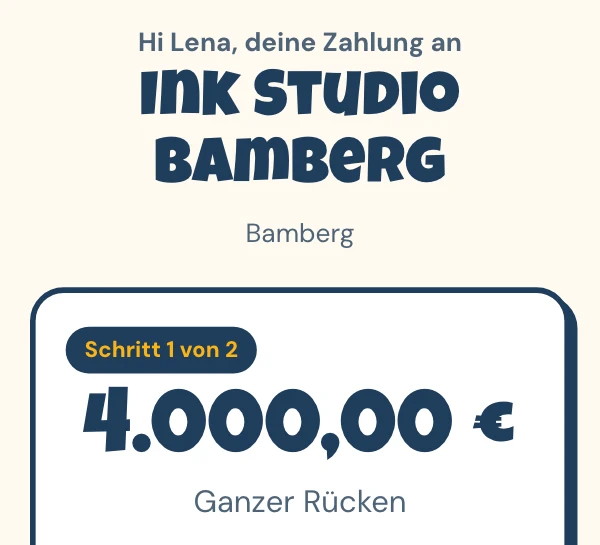
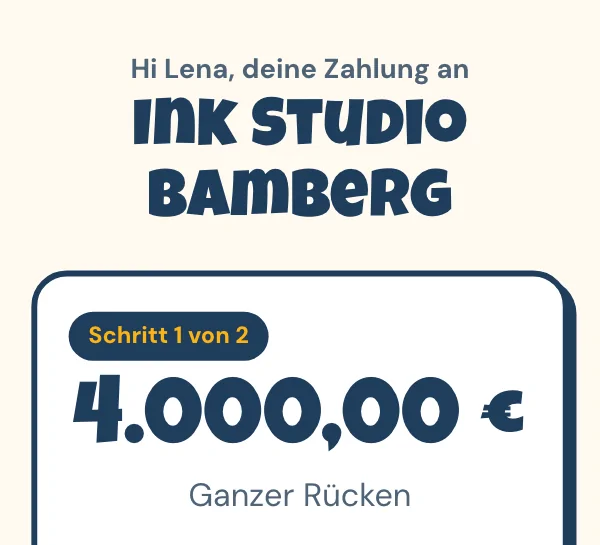
Tattoofin LP: Handybild 4.000 € ohne doppelte Ortszeile
Zahlseite (zahlung.html, zahlen.html) zeigt die Ortszeile nur noch, wenn der
Ort nicht schon im Studionamen steht (gleiche Regel wie app-kit.js), sonst
stand dort „Ink Studio Bamberg / Bamberg“. Hero-Bild handy-kunde-oben.webp
damit neu aufgenommen (echte Zahlseite am lokalen Server, 306 px Breite,
600×545, gleicher Ausschnitt wie Anzahlungs- und Gutscheinbild), Version
v=20261116d. e2e prüft die Ortszeile.

Changed region(s): [[0.03, 0.0624, 0.99, 1.0], [0.3, 0.8734, 0.48, 0.967], [0.51, 0.8734, 0.69, 0.9358]]

diff --git a/tattoofin/website/public/index.html b/tattoofin/website/public/index.html
@@ -7,7 +7,7 @@
 if(/(^|[^a-z])tv-?a([^a-z]|$)|^d$|bild-?d2?|no-?show|anzahlung/.test(u))v='noshow';
 else if(/(^|[^a-z])tv-?c([^a-z]|$)|10-?sek|link/.test(u))v='link';
 else if(/(^|[^a-z])tv-?d([^a-z]|$)|gutschein|weihnacht/.test(u))v=new Date()<new Date('2026-12-25T00:00:00+01:00')?'gutschein':'link';
-var d=document.documentElement,B={"": "handy-kunde-oben.webp?v=20261116c", "noshow": "handy-anzahlung-oben.webp?v=20261116b", "gutschein": "handy-gutschein-oben.webp?v=20261116b"},l=document.createElement('link');
+var d=document.documentElement,B={"": "handy-kunde-oben.webp?v=20261116d", "noshow": "handy-anzahlung-oben.webp?v=20261116b", "gutschein": "handy-gutschein-oben.webp?v=20261116b"},l=document.createElement('link');
 if(!(window.matchMedia&&matchMedia('(prefers-reduced-motion: reduce)').matches)){d.classList.add('stech-warten');setTimeout(function(){d.classList.remove('stech-warten')},4000);}
 l.rel='preload';l.as='image';l.type='image/webp';l.href='/assets/start/'+(B[v]||B['']);l.setAttribute('fetchpriority','high');document.head.appendChild(l);
 if(v){d.setAttribute('data-hero',v);setTimeout(function(){d.classList.add('hero-ok')},1500);}}catch(e){}})();</script>
@@ -61,7 +61,7 @@ if(v){d.setAttribute('data-hero',v);setTimeout(function(){d.classList.add('hero-
       <img class="hausherr" src="/assets/start/figur.webp" alt="Tattoofin-Figur mit tätowierten Armen zeigt den Daumen hoch" width="300" height="310" decoding="async">
       <figure class="auftakt-handy">
         <span class="klebe" aria-hidden="true"></span>
-        <span class="handy-rahmen"><img src="/assets/start/handy-kunde-oben.webp?v=20261116c" alt="Echte Tattoofin-Zahlseite am Handy: Hi Lena, deine Zahlung an Ink Studio Bamberg, Schritt 1 von 2, 4.000,00 Euro, Ganzer Rücken. Beispieldaten." width="600" height="545"><button type="button" class="film-knopf" data-film aria-haspopup="dialog"><span aria-hidden="true">▶</span> 10 Sek. ansehen</button></span>
+        <span class="handy-rahmen"><img src="/assets/start/handy-kunde-oben.webp?v=20261116d" alt="Echte Tattoofin-Zahlseite am Handy: Hi Lena, deine Zahlung an Ink Studio Bamberg, Schritt 1 von 2, 4.000,00 Euro, Ganzer Rücken. Beispieldaten." width="600" height="545"><button type="button" class="film-knopf" data-film aria-haspopup="dialog"><span aria-hidden="true">▶</span> 10 Sek. ansehen</button></span>
         <figcaption>Echte App · Beispieldaten</figcaption>
       </figure>
     </div>

diff --git a/tattoofin/website/public/studios.html b/tattoofin/website/public/studios.html
@@ -7,7 +7,7 @@
 if(/(^|[^a-z])tv-?a([^a-z]|$)|^d$|bild-?d2?|no-?show|anzahlung/.test(u))v='noshow';
 else if(/(^|[^a-z])tv-?c([^a-z]|$)|10-?sek|link/.test(u))v='link';
 else if(/(^|[^a-z])tv-?d([^a-z]|$)|gutschein|weihnacht/.test(u))v=new Date()<new Date('2026-12-25T00:00:00+01:00')?'gutschein':'link';
-var d=document.documentElement,B={"": "handy-kunde-oben.webp?v=20261116c", "noshow": "handy-anzahlung-oben.webp?v=20261116b", "gutschein": "handy-gutschein-oben.webp?v=20261116b"},l=document.createElement('link');
+var d=document.documentElement,B={"": "handy-kunde-oben.webp?v=20261116d", "noshow": "handy-anzahlung-oben.webp?v=20261116b", "gutschein": "handy-gutschein-oben.webp?v=20261116b"},l=document.createElement('link');
 if(!(window.matchMedia&&matchMedia('(prefers-reduced-motion: reduce)').matches)){d.classList.add('stech-warten');setTimeout(function(){d.classList.remove('stech-warten')},4000);}
 l.rel='preload';l.as='image';l.type='image/webp';l.href='/assets/start/'+(B[v]||B['']);l.setAttribute('fetchpriority','high');document.head.appendChild(l);
 if(v){d.setAttribute('data-hero',v);setTimeout(function(){d.classList.add('hero-ok')},1500);}}catch(e){}})();</script>
@@ -60,7 +60,7 @@ if(v){d.setAttribute('data-hero',v);setTimeout(function(){d.classList.add('hero-
       <img class="hausherr" src="/assets/start/figur.webp" alt="Tattoofin-Figur mit tätowierten Armen zeigt den Daumen hoch" width="300" height="310" decoding="async">
       <figure class="auftakt-handy">
         <span class="klebe" aria-hidden="true"></span>
-        <span class="handy-rahmen"><img src="/assets/start/handy-kunde-oben.webp?v=20261116c" alt="Echte Tattoofin-Zahlseite am Handy: Hi Lena, deine Zahlung an Ink Studio Bamberg, Schritt 1 von 2, 4.000,00 Euro, Ganzer Rücken. Beispieldaten." width="600" height="545"><button type="button" class="film-knopf" data-film aria-haspopup="dialog"><span aria-hidden="true">▶</span> 10 Sek. ansehen</button></span>
+        <span class="handy-rahmen"><img src="/assets/start/handy-kunde-oben.webp?v=20261116d" alt="Echte Tattoofin-Zahlseite am Handy: Hi Lena, deine Zahlung an Ink Studio Bamberg, Schritt 1 von 2, 4.000,00 Euro, Ganzer Rücken. Beispieldaten." width="600" height="545"><button type="button" class="film-knopf" data-film aria-haspopup="dialog"><span aria-hidden="true">▶</span> 10 Sek. ansehen</button></span>
         <figcaption>Echte App · Beispieldaten</figcaption>
       </figure>
     </div>

diff --git a/tattoofin/website/public/zahlung.html b/tattoofin/website/public/zahlung.html
@@ -70,7 +70,7 @@
     B.meldung(err.status === 404 ? "Bitte prüfe den Link oder frag im Studio nach einem neuen." : err.message); return;
   }
   var z = d.zahlung, anz = z.art === "anzahlung", gs = z.art === "gutschein";
-  $("studio").textContent = d.studio.firma; $("ort").textContent = d.studio.ort || ""; B.branding(d.studio);
+  $("studio").textContent = d.studio.firma; $("ort").textContent = (function (f, o) { o = String(o || "").trim(); return o && String(f || "").toLowerCase().indexOf(o.toLowerCase()) < 0 ? o : ""; })(d.studio.firma, d.studio.ort) /* Ort nur, wenn er nicht schon im Studionamen steht (sonst „Ink Studio Bamberg / Bamberg“) */; B.branding(d.studio);
   $("hallo").textContent = gs ? (z.kunde ? "Hi " + z.kunde + ", dein Gutschein von" : "Dein Gutschein von") : z.kunde ? "Hi " + z.kunde + ", deine Zahlung an" : "Zahlung an";
   $("betrag").textContent = TF.euro(z.betragCent, true);
   $("sub").textContent = gs ? "Wertgutschein" + (z.empfaenger ? " für " + z.empfaenger : "") + " · für alle Leistungen bei " + d.studio.firma : (z.beschreibung || "Tattoo-Projekt") + (z.sitzungen ? " · " + z.sitzungen : "") + (anz ? " · Anzahlung" : "");

diff --git a/tattoofin/website/public/zahlen.html b/tattoofin/website/public/zahlen.html
@@ -63,7 +63,7 @@ if (/[?&]app=1(&|#|$)/.test(location.search)) document.querySelectorAll(".powere
   try {
     var d = await TF.api("/api/pay?s=" + encodeURIComponent(slug || ""));
     studio = d.studio; B.branding(studio);
-    $("studio").textContent = studio.firma; $("ort").textContent = studio.ort || "";
+    $("studio").textContent = studio.firma; $("ort").textContent = (function (f, o) { o = String(o || "").trim(); return o && String(f || "").toLowerCase().indexOf(o.toLowerCase()) < 0 ? o : ""; })(studio.firma, studio.ort) /* Ort nur, wenn er nicht schon im Studionamen steht (sonst „Ink Studio Bamberg / Bamberg“) */;
     document.title = "Bezahlen bei " + studio.firma;
     // Ohne Klarna (z. B. Paket Risikofrei ab dem Stichtag): keine Raten-Hinweise, nur Karte/Wallets
     if (studio.klarna === false) document.querySelector(".fuss").innerHTML = "Bezahlt wird per Karte (auch Apple Pay / Google Pay). Dein Vertrag über das Tattoo besteht nur mit dem Studio; Tattoofin stellt nur die Technik bereit. Deine gesetzlichen Rechte bleiben von den Häkchen unberührt.";

diff --git a/tattoofin/website/dev/startseite-bauen.py b/tattoofin/website/dev/startseite-bauen.py
@@ -48,7 +48,7 @@ FRAGEN = [
 # Kopf-Skript (steht vor dem Stylesheet, damit es nicht auf style.css wartet und das Variantenbild sofort vorlädt): utm_content → html[data-hero] (CSS blendet die wechselnden Texte bis zum Tausch aus, höchstens 1,5 s) und lädt das passende Handybild vor.
 # Tausch-Skript direkt hinter dem Hero: Texte, Knopf, Stempel und Bild tauschen, dann html.hero-ok. Ohne Skript bleibt der Standard (Rücken).
 # Zuordnung: tv-a / bild-d2 / d → noshow, tv-b / ohne → Rücken (Standard), tv-c → link, tv-d → gutschein (bis 24.12., danach link).
-HERO_BILDER = {"": "handy-kunde-oben.webp?v=20261116c", "noshow": "handy-anzahlung-oben.webp?v=20261116b", "gutschein": "handy-gutschein-oben.webp?v=20261116b"}
+HERO_BILDER = {"": "handy-kunde-oben.webp?v=20261116d", "noshow": "handy-anzahlung-oben.webp?v=20261116b", "gutschein": "handy-gutschein-oben.webp?v=20261116b"}
 HERO_KOPF = """<script>(function(){try{var q=new URLSearchParams(location.search),u=(q.get('utm_content')||q.get('hero')||'').toLowerCase(),v='';
 if(/(^|[^a-z])tv-?a([^a-z]|$)|^d$|bild-?d2?|no-?show|anzahlung/.test(u))v='noshow';
 else if(/(^|[^a-z])tv-?c([^a-z]|$)|10-?sek|link/.test(u))v='link';

diff --git a/tattoofin/website/README.md b/tattoofin/website/README.md
@@ -124,7 +124,7 @@ und `stripe listen --forward-to localhost:8888/api/stripe-webhook --forward-conn
 | Klarna-Stichtag | Ab **20.11.2026 00:00 Uhr deutscher Zeit** gibt es Klarna nicht mehr im Paket Risikofrei (Zahlung über das Plattformkonto). Monatlich/Einmalzahlung/Einladung (eigenes Stripe-Konto) behalten Klarna. Zentral in `_lib/config.mjs`: `KLARNA_PLATTFORM_BIS` (Standard `2026-11-20`; `nie` = aus), Logik `klarnaFuer()` in `_lib/domain.mjs`. Test-Zeit: `TF_JETZT=2026-11-20T00:00:00+01:00`. |
 | Direct-Charge-Prototyp | `RISIKOFREI_DIRECT=1` (Standard AUS, **nicht aktivieren, bevor in Stripe-Test geprüft**): Risikofrei als Direct Charge auf dem Studio-Konto (Stripe-Account-Header, `application_fee_amount` 10 %). Dann bleibt Klarna auch nach dem Stichtag. Zahlung trägt `abwicklung: "direkt"`. |
 | Warnhinweis | „Achtung! Kreditaufnahme kostet Geld.“ überall, wo mit Raten geworben wird. **Warnsatz klein (Fußnote, AA) direkt bei der einen Raten-Aussage im Hero, Entscheidung Domenic 14.11.2026**: gemeinsame Klasse `.raten-fn` (12–12,5 px, normal gesetzt, Kontrast ≥ 4,5) in `assets/start/style.css`, `css/site.css` und `raten.html`. Startseite und /studios haben genau eine Raten-Aussage (H1 + Herz im ersten Bildschirm), sonst „Klarna“ nur als Zahlart; in den Fragen 1–3 je eine kleine Zeile. Test: `dev/betrieb.mjs` Abschnitt 17g (vorhanden, ≥ 12 px, Kontrast, Startseite/Studios: Fußnote im Hero ≤ 560 px unter der Raten-Aussage, keine Raten*-Aussage außerhalb von Hero und Fragen; 390 px + 1440 px). |
-| Startseite + /studios (Kurzfassung 14.11.2026) | Beide Seiten entstehen aus **einer** Vorlage: `python3 dev/startseite-bauen.py` (Texte, Fragen, JSON-LD) mit den Flash-Motiven aus `dev/vorlage/motive.html`. Aufbau: Hero („Ganzer Rücken? 4.000 € auf einmal.“ – Betrag am 16.11.2026 von 2.000 € auf 4.000 € angehoben, Domenic: für 2.000 € macht keiner einen ganzen Rücken; Klarna-Grenze DE laut Stripe-Doku bis 10.000 € je nach Option; echte Zahlseite `handy-kunde-oben.webp`, aufgenommen am lokalen Server mit 320 px Breite, 600×545, „▶ 10 Sek. ansehen“ = echte App-Aufnahme im Fenster, kein Autoplay), echter Fall 900 € per Klarna (`[data-beleg]`, Beleg `content/tattoofin/spots-2026-11/belege/fall-900-klarna-2026-11-07.md`), 4 Werkzeuge, 3 Schritte, Preis-Bon, 6 Fragen, Schluss. /studios zusätzlich: noindex, Start-Links mit `utm_source=studios&utm_medium=seite&utm_content=<ort>` (kommt der Besucher mit eigenen utm_*, ersetzen diese die Standardwerte komplett), Link für Endkunden nur im Fuß, Anfrage-Formular zugeklappt (`#anfrage`, Meta-Lead über `/api/anfrage`). Sichtbar wird vom **Team** gesprochen; Domenic nur in Pflichtangaben (Impressum, Datenschutz, Verträge/AVV). Hero-Herz heißt „KLARNA“ und führt zum 900-€-Fall (dort ist die Klarna-Art nicht belegt, darum nie „Raten“ daran). Preis-Beispiel = 4.000 € per Klarna (Stripe ab 2,99 % + 0,35 € = 119,95 € ≈ 120 €, bei dir ca. 3.880 €), Karte ab 1,5 % + 0,25 € = 60,25 € ≈ 60 €; Test `dev/betrieb.mjs` 17c rechnet das aus den Fragen nach. Tests auf freien Ports: `E2E_PORT`, `E2E_RESEND_PORT`, `BETRIEB_PORT`, `STRIPE_MOCK_PORT`. Lokales Video spielt in iOS-Safari nicht (dev/server.mjs kann keine Range-Anfragen), auf Netlify schon. Nicht verwenden: KI-Aufsteller-Bilder, 2-Minuten-Video (KI-Poster), `portal-zahlungen-schmal.webp`, iPhone-App. |
+| Startseite + /studios (Kurzfassung 14.11.2026) | Beide Seiten entstehen aus **einer** Vorlage: `python3 dev/startseite-bauen.py` (Texte, Fragen, JSON-LD) mit den Flash-Motiven aus `dev/vorlage/motive.html`. Aufbau: Hero („Ganzer Rücken? 4.000 € auf einmal.“ – Betrag am 16.11.2026 von 2.000 € auf 4.000 € angehoben, Domenic: für 2.000 € macht keiner einen ganzen Rücken; Klarna-Grenze DE laut Stripe-Doku bis 10.000 € je nach Option; echte Zahlseite `handy-kunde-oben.webp`, aufgenommen am lokalen Server mit 306 px Breite (bei 300 px bricht „4.000,00 €“ um), 600×545; die Zahlseite lässt die Ortszeile weg, wenn der Ort schon im Studionamen steht (wie `app-kit.js`), „▶ 10 Sek. ansehen“ = echte App-Aufnahme im Fenster, kein Autoplay), echter Fall 900 € per Klarna (`[data-beleg]`, Beleg `content/tattoofin/spots-2026-11/belege/fall-900-klarna-2026-11-07.md`), 4 Werkzeuge, 3 Schritte, Preis-Bon, 6 Fragen, Schluss. /studios zusätzlich: noindex, Start-Links mit `utm_source=studios&utm_medium=seite&utm_content=<ort>` (kommt der Besucher mit eigenen utm_*, ersetzen diese die Standardwerte komplett), Link für Endkunden nur im Fuß, Anfrage-Formular zugeklappt (`#anfrage`, Meta-Lead über `/api/anfrage`). Sichtbar wird vom **Team** gesprochen; Domenic nur in Pflichtangaben (Impressum, Datenschutz, Verträge/AVV). Hero-Herz heißt „KLARNA“ und führt zum 900-€-Fall (dort ist die Klarna-Art nicht belegt, darum nie „Raten“ daran). Preis-Beispiel = 4.000 € per Klarna (Stripe ab 2,99 % + 0,35 € = 119,95 € ≈ 120 €, bei dir ca. 3.880 €), Karte ab 1,5 % + 0,25 € = 60,25 € ≈ 60 €; Test `dev/betrieb.mjs` 17c rechnet das aus den Fragen nach. Tests auf freien Ports: `E2E_PORT`, `E2E_RESEND_PORT`, `BETRIEB_PORT`, `STRIPE_MOCK_PORT`. Lokales Video spielt in iOS-Safari nicht (dev/server.mjs kann keine Range-Anfragen), auf Netlify schon. Nicht verwenden: KI-Aufsteller-Bilder, 2-Minuten-Video (KI-Poster), `portal-zahlungen-schmal.webp`, iPhone-App. |
 | Verträge | Neue Fassung `2026-11` (`/vertrag.html`), bisherige Fassung als `/vertrag-2026-10d.html` archiviert (nie rückwirkend ändern). Rechtsblatt `rechtVersion` 2026-11. |
 | Nicht im Code | Instagram-Beiträge, Reels, `public/media/*.mp4` (Videos), gerenderte PDFs in `public/` und `tattoofin/pdf/` (z. B. `einrichtung-anleitung.pdf`) tragen ggf. noch den alten Hinweis und müssen aus den Quellen neu erzeugt werden. |
 
